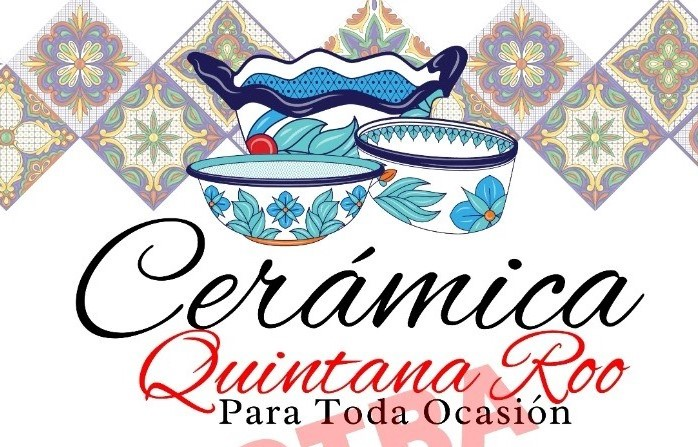
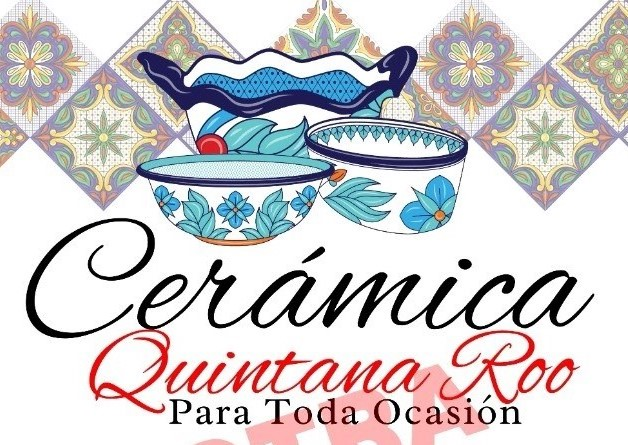
screen - final stage 1

diff --git a/style_portada.css b/style_portada.css
@@ -162,7 +162,7 @@ body {
   .header {
     background-image: url("portada2.jpeg");
     background-size: cover;
-    height: 280px;
+    height: 300px;
     text-align: center; 
   }
   
